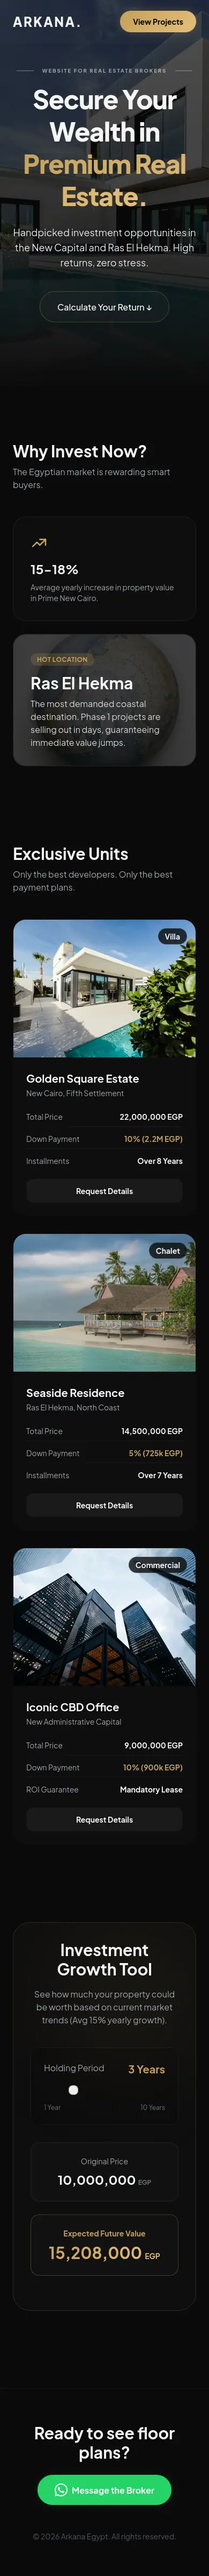
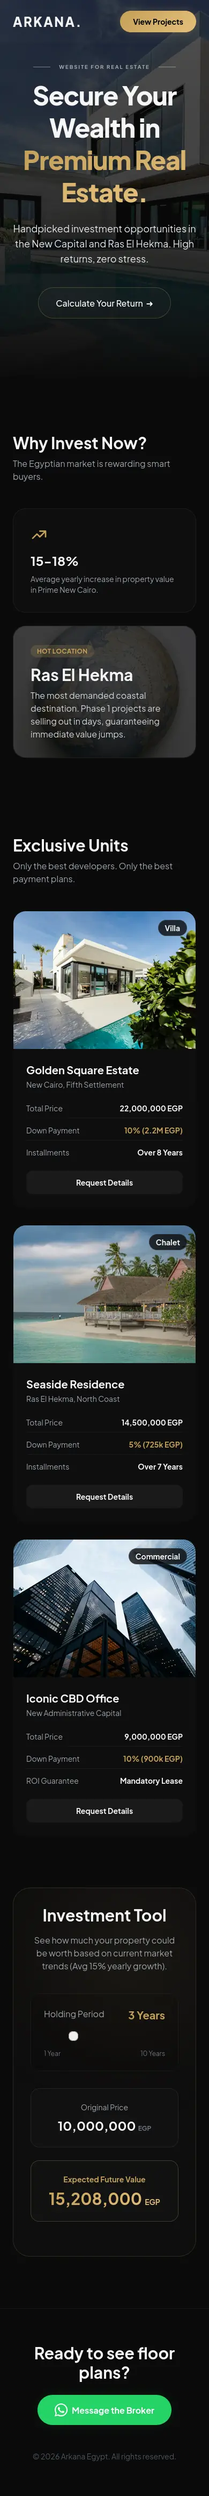
json stuff

diff --git a/app/components/ui/PortfolioShowcase.jsx b/app/components/ui/PortfolioShowcase.jsx
@@ -111,7 +111,7 @@ export default function PortfolioShowcase({ lang }) {
           {/* Project title — desktop only */}
           <h3 className="text-heading font-bold text-content-heading hidden lg:block">
             {pd.title[lang]}
-            <span class="sr-only">Website | موقع إلكتروني</span>
+            <span className="sr-only">Website | موقع إلكتروني</span>
           </h3>
 
           {/* Project description — desktop only */}
